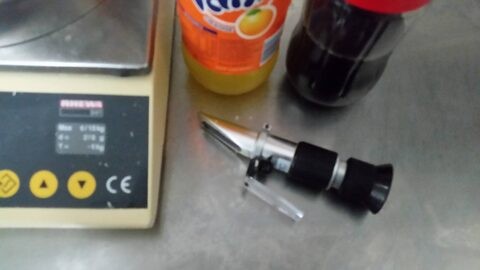
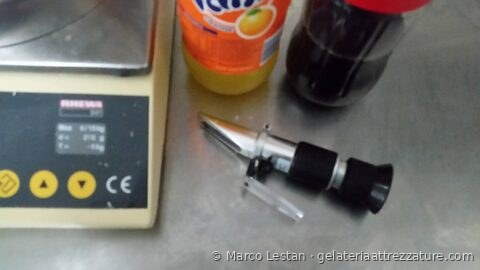
Add files via upload

Changed region(s): [[0.4375, 0.9185, 1.0, 0.9778]]

diff --git a/nutzungsbedingungen.html b/nutzungsbedingungen.html
@@ -1,0 +1,42 @@
+<!doctype html>
+<html lang="de">
+<head>
+<meta charset="utf-8">
+<meta name="viewport" content="width=device-width,initial-scale=1">
+<title>Nutzungsbedingungen und Urheberrecht | gelateriaattrezzature.com</title>
+<meta name="description" content="Nutzungsbedingungen, Urheberrecht und erlaubte Nutzung der Inhalte dieser Website.">
+<meta name="robots" content="noindex,follow">
+<link rel="canonical" href="https://gelateriaattrezzature.com/nutzungsbedingungen.html">
+<style>
+:root{--ink:#3b2a20;--soft:#7a6455;--paper:#fffaf3;--brand:#c2563a;--line:#ecdfd2}
+*{box-sizing:border-box}
+body{margin:0;font-family:"Segoe UI",system-ui,-apple-system,sans-serif;background:var(--paper);color:var(--ink);line-height:1.65}
+main{max-width:760px;margin:0 auto;padding:28px 16px 56px}
+a{color:var(--brand)}
+h1{font-size:1.6rem;line-height:1.25;margin:18px 0 6px}
+h2{font-size:1.15rem;margin:26px 0 6px}
+ul{padding-left:22px}
+li{margin:6px 0}
+.upd{color:var(--soft);font-size:.9rem;margin:0 0 8px}
+footer{border-top:1px solid var(--line);margin-top:36px;padding-top:14px;color:var(--soft);font-size:.85rem}
+</style>
+</head>
+<body>
+<main>
+<p><a href="/">← Zur Startseite</a></p>
+<h1>Nutzungsbedingungen und Urheberrecht</h1>
+<p class="upd">Zuletzt aktualisiert: 18. Oktober 2026</p>
+<h2>Inhaber der Inhalte</h2>
+<p>Die Inhalte von gelateriaattrezzature.com (Texte, Aufbau und Gliederung der Seiten, Vergleiche, Rechner, Grafiken, Fotos und vom Autor erstellte Bilder) stammen von Marco Lestan, sofern nicht anders angegeben. © 2026 Marco Lestan, alle Rechte vorbehalten.</p>
+<h2>Was erlaubt ist</h2>
+<p>Sie dürfen die Website lesen, für Ihre Arbeit in der Eisdiele nutzen und kurze Passagen mit einem gut sichtbaren Link zur Originalseite zitieren.</p>
+<h2>Was ohne schriftliche Genehmigung nicht erlaubt ist</h2>
+<ul><li>Texte, Bilder, Tabellen, Vergleiche oder Teile der Website zu kopieren oder erneut zu veröffentlichen, auch in veränderter oder übersetzter Form.</li><li>Den Aufbau oder die Auswahl der Daten auf anderen Websites, in Apps, Newslettern, Archiven oder Datenbanken nachzubilden.</li><li>Inhalte automatisch oder systematisch auszulesen (Scraping) oder zum Training von KI-Systemen zu verwenden.</li><li>Bilder auf andere Websites hochzuladen oder direkt von unserem Server einzubinden (Hotlinking).</li></ul>
+<h2>Inhalte Dritter</h2>
+<p>Marken, Namen, Logos, Bilder und technische Daten der Herstellerfirmen gehören den jeweiligen Inhabern und werden nur zur Information gezeigt, mit Links zu deren Quellen. Einige Bilder sind Illustrationen, die mit künstlicher Intelligenz erstellt wurden; sie sind entsprechend gekennzeichnet.</p>
+<h2>Genehmigungen und Meldungen</h2>
+<p>Für eine Genehmigung oder zur Meldung einer unerlaubten Nutzung schreiben Sie an <a href="mailto:marcolestan@gelateriaingredienti.com">marcolestan@gelateriaingredienti.com</a>. Unerlaubte Nutzung kann rechtlich verfolgt werden (in Deutschland nach dem Urheberrechtsgesetz, UrhG).</p>
+<footer>© 2026 Marco Lestan</footer>
+</main>
+</body>
+</html>

diff --git a/condizioni-d-uso.html b/condizioni-d-uso.html
@@ -1,0 +1,42 @@
+<!doctype html>
+<html lang="it">
+<head>
+<meta charset="utf-8">
+<meta name="viewport" content="width=device-width,initial-scale=1">
+<title>Condizioni d'uso e diritti d'autore | gelateriaattrezzature.com</title>
+<meta name="description" content="Condizioni d'uso, diritti d'autore e uso consentito dei contenuti del sito.">
+<meta name="robots" content="noindex,follow">
+<link rel="canonical" href="https://gelateriaattrezzature.com/condizioni-d-uso.html">
+<style>
+:root{--ink:#3b2a20;--soft:#7a6455;--paper:#fffaf3;--brand:#c2563a;--line:#ecdfd2}
+*{box-sizing:border-box}
+body{margin:0;font-family:"Segoe UI",system-ui,-apple-system,sans-serif;background:var(--paper);color:var(--ink);line-height:1.65}
+main{max-width:760px;margin:0 auto;padding:28px 16px 56px}
+a{color:var(--brand)}
+h1{font-size:1.6rem;line-height:1.25;margin:18px 0 6px}
+h2{font-size:1.15rem;margin:26px 0 6px}
+ul{padding-left:22px}
+li{margin:6px 0}
+.upd{color:var(--soft);font-size:.9rem;margin:0 0 8px}
+footer{border-top:1px solid var(--line);margin-top:36px;padding-top:14px;color:var(--soft);font-size:.85rem}
+</style>
+</head>
+<body>
+<main>
+<p><a href="/">← Torna alla home</a></p>
+<h1>Condizioni d'uso e diritti d'autore</h1>
+<p class="upd">Ultimo aggiornamento: 18 ottobre 2026</p>
+<h2>Titolarità dei contenuti</h2>
+<p>I contenuti di gelateriaattrezzature.com (testi, struttura e organizzazione delle pagine, confronti, calcolatori, grafica, foto e immagini create dall'autore) sono di Marco Lestan, salvo dove indicato diversamente. © 2026 Marco Lestan, tutti i diritti riservati.</p>
+<h2>Cosa puoi fare</h2>
+<p>Puoi consultare il sito, usarlo per il tuo lavoro in gelateria e citare brevi passi con un link ben visibile alla pagina d'origine.</p>
+<h2>Cosa non puoi fare senza autorizzazione scritta</h2>
+<ul><li>Copiare o ripubblicare testi, immagini, tabelle, confronti o parti del sito, anche modificati o tradotti.</li><li>Riprodurre la struttura o la selezione dei dati su altri siti, app, newsletter, archivi o banche dati.</li><li>Estrarre i contenuti in modo automatico o sistematico (scraping) o usarli per addestrare sistemi di intelligenza artificiale.</li><li>Caricare le immagini su altri siti o collegarle direttamente dal nostro server (hotlinking).</li></ul>
+<h2>Contenuti di terzi</h2>
+<p>Marchi, nomi, loghi, immagini e dati tecnici delle aziende produttrici restano dei rispettivi titolari e sono mostrati solo a scopo informativo, con link alle loro fonti. Alcune immagini sono illustrative e create con l'intelligenza artificiale: sono indicate come tali.</p>
+<h2>Permessi e segnalazioni</h2>
+<p>Per chiedere un permesso o segnalare un uso non autorizzato scrivi a <a href="mailto:marcolestan@gelateriaingredienti.com">marcolestan@gelateriaingredienti.com</a>. L'uso non autorizzato può essere perseguito a norma di legge (in Italia, legge 633/1941 sul diritto d'autore).</p>
+<footer>© 2026 Marco Lestan</footer>
+</main>
+</body>
+</html>

diff --git a/index.html b/index.html
@@ -523,6 +523,7 @@
     <span data-i18n="legalText">Questo portale è indipendente, gratuito per l'utente e non sponsorizzato: nessuna azienda paga per essere inclusa nel confronto o per la propria posizione nei risultati. Contenuti conformi alla normativa europea vigente (incl. Regolamento UE 2016/679 – GDPR). Il presente portale ha finalità esclusivamente informativa e consultiva: non è consentito alcun uso commerciale, riproduzione, distribuzione o sfruttamento dei contenuti senza autorizzazione scritta del titolare.</span>
     <span class="disclaimer" data-i18n="disclaimerText" style="display:block;margin-top:6px;">Avviso: i dati contenuti in questo portale sono riportati solo a scopo di conoscenza. Il confronto è puramente teorico e si basa sui dati rilasciati dalle aziende o disponibili sul web. Non sono indicati costi né altri parametri economici.</span>
   </div>
+<p class="copyright-line" style="margin:12px 0 0;font-size:.85em;text-align:center;">© 2026 Marco Lestan, tutti i diritti riservati · <a href="/condizioni-d-uso.html">Condizioni d'uso</a></p>
 </footer>
 
 <div class="modal-overlay" id="joinModalOverlay">

diff --git a/usato.html b/usato.html
@@ -317,6 +317,7 @@
     <span data-i18n="legalText">Contenuti conformi alla normativa europea vigente (incl. Regolamento UE 2016/679 – GDPR). Il presente portale ha finalità esclusivamente informativa e consultiva: non è consentito alcun uso commerciale, riproduzione, distribuzione o sfruttamento dei contenuti senza autorizzazione scritta del titolare.</span>
     <span class="disclaimer" data-i18n="disclaimerText" style="display:block;margin-top:6px;">Avviso: i dati contenuti in questo portale sono riportati solo a scopo di conoscenza. Il confronto è puramente teorico e si basa sui dati rilasciati dalle aziende o disponibili sul web. Non sono indicati costi né altri parametri economici.</span>
   </div>
+<p class="copyright-line" style="margin:12px 0 0;font-size:.85em;text-align:center;">© 2026 Marco Lestan, tutti i diritti riservati · <a href="/condizioni-d-uso.html">Condizioni d'uso</a></p>
 </footer>
 
 <div class="modal-overlay" id="sellModalOverlay">

diff --git a/aziende-usato.html b/aziende-usato.html
@@ -434,6 +434,7 @@
     <span data-i18n="legalText">Contenuti conformi alla normativa europea vigente (incl. Regolamento UE 2016/679 – GDPR). Il presente portale ha finalità esclusivamente informativa e consultiva: non è consentito alcun uso commerciale, riproduzione, distribuzione o sfruttamento dei contenuti senza autorizzazione scritta del titolare.</span>
     <span class="disclaimer" data-i18n="disclaimerText" style="display:block;margin-top:6px;">Avviso: i dati contenuti in questo portale sono riportati solo a scopo di conoscenza. Il confronto è puramente teorico e si basa sui dati rilasciati dalle aziende o disponibili sul web. Non sono indicati costi né altri parametri economici.</span>
   </div>
+<p class="copyright-line" style="margin:12px 0 0;font-size:.85em;text-align:center;">© 2026 Marco Lestan, tutti i diritti riservati · <a href="/condizioni-d-uso.html">Condizioni d'uso</a></p>
 </footer>
 
 <script>

diff --git a/aziende.html b/aziende.html
@@ -599,6 +599,7 @@
     <span data-i18n="legalText">Contenuti conformi alla normativa europea vigente (incl. Regolamento UE 2016/679 – GDPR). Il presente portale ha finalità esclusivamente informativa e consultiva: non è consentito alcun uso commerciale, riproduzione, distribuzione o sfruttamento dei contenuti senza autorizzazione scritta del titolare.</span>
     <span class="disclaimer" data-i18n="disclaimerText" style="display:block;margin-top:6px;">Avviso: i dati contenuti in questo portale sono riportati solo a scopo di conoscenza. Il confronto è puramente teorico e si basa sui dati rilasciati dalle aziende o disponibili sul web. Non sono indicati costi né altri parametri economici.</span>
   </div>
+<p class="copyright-line" style="margin:12px 0 0;font-size:.85em;text-align:center;">© 2026 Marco Lestan, tutti i diritti riservati · <a href="/condizioni-d-uso.html">Condizioni d'uso</a></p>
 </footer>
 
 <script>

diff --git a/chi-sono.html b/chi-sono.html
@@ -236,6 +236,7 @@
     <span data-i18n="legalText">Contenuti conformi alla normativa europea vigente (incl. Regolamento UE 2016/679 – GDPR). Il presente portale ha finalità esclusivamente informativa e consultiva: non è consentito alcun uso commerciale, riproduzione, distribuzione o sfruttamento dei contenuti senza autorizzazione scritta del titolare.</span>
     <span class="disclaimer" data-i18n="disclaimerText" style="display:block;margin-top:6px;">Avviso: i dati contenuti in questo portale sono riportati solo a scopo di conoscenza. Il confronto è puramente teorico e si basa sui dati rilasciati dalle aziende o disponibili sul web. Non sono indicati costi né altri parametri economici.</span>
   </div>
+<p class="copyright-line" style="margin:12px 0 0;font-size:.85em;text-align:center;">© 2026 Marco Lestan, tutti i diritti riservati · <a href="/condizioni-d-uso.html">Condizioni d'uso</a></p>
 </footer>
 
 <script>

diff --git a/mantecatori-gelato.html b/mantecatori-gelato.html
@@ -253,6 +253,7 @@
     <span data-i18n="legalText">Contenuti conformi alla normativa europea vigente (incl. Regolamento UE 2016/679 – GDPR). Il presente portale ha finalità esclusivamente informativa e consultiva: non è consentito alcun uso commerciale, riproduzione, distribuzione o sfruttamento dei contenuti senza autorizzazione scritta del titolare.</span>
     <span class="disclaimer" data-i18n="disclaimerText" style="display:block;margin-top:6px;">Avviso: i dati contenuti in questo portale sono riportati solo a scopo di conoscenza. Il confronto è puramente teorico e si basa sui dati rilasciati dalle aziende o disponibili sul web. Non sono indicati costi né altri parametri economici.</span>
   </div>
+<p class="copyright-line" style="margin:12px 0 0;font-size:.85em;text-align:center;">© 2026 Marco Lestan, tutti i diritti riservati · <a href="/condizioni-d-uso.html">Condizioni d'uso</a></p>
 </footer>
 
 <script>

diff --git a/notizie.html b/notizie.html
@@ -240,6 +240,7 @@
     <span data-i18n="legalText">Contenuti conformi alla normativa europea vigente (incl. Regolamento UE 2016/679 – GDPR). Il presente portale ha finalità esclusivamente informativa e consultiva: non è consentito alcun uso commerciale, riproduzione, distribuzione o sfruttamento dei contenuti senza autorizzazione scritta del titolare.</span>
     <span class="disclaimer" data-i18n="disclaimerText" style="display:block;margin-top:6px;">Avviso: i dati contenuti in questo portale sono riportati solo a scopo di conoscenza. Il confronto è puramente teorico e si basa sui dati rilasciati dalle aziende o disponibili sul web. Non sono indicati costi né altri parametri economici.</span>
   </div>
+<p class="copyright-line" style="margin:12px 0 0;font-size:.85em;text-align:center;">© 2026 Marco Lestan, tutti i diritti riservati · <a href="/condizioni-d-uso.html">Condizioni d'uso</a></p>
 </footer>
 
 <script>

diff --git a/abbattitori-gelato.html b/abbattitori-gelato.html
@@ -248,6 +248,7 @@
     <span>Contenuti conformi alla normativa europea vigente (incl. Regolamento UE 2016/679 – GDPR). Il presente portale ha finalità esclusivamente informativa e consultiva: non è consentito alcun uso commerciale, riproduzione, distribuzione o sfruttamento dei contenuti senza autorizzazione scritta del titolare.</span>
     <span class="disclaimer" style="display:block;margin-top:6px;">Avviso: i dati contenuti in questo portale sono riportati solo a scopo di conoscenza. Il confronto è puramente teorico e si basa sui dati rilasciati dalle aziende o disponibili sul web. Non sono indicati costi né altri parametri economici.</span>
   </div>
+<p class="copyright-line" style="margin:12px 0 0;font-size:.85em;text-align:center;">© 2026 Marco Lestan, tutti i diritti riservati · <a href="/condizioni-d-uso.html">Condizioni d'uso</a></p>
 </footer>
 
 <script>

diff --git a/accessori-gelateria.html b/accessori-gelateria.html
@@ -349,6 +349,7 @@
     <span>Contenuti conformi alla normativa europea vigente (incl. Regolamento UE 2016/679 – GDPR). Il presente portale ha finalità esclusivamente informativa e consultiva: non è consentito alcun uso commerciale, riproduzione, distribuzione o sfruttamento dei contenuti senza autorizzazione scritta del titolare.</span>
     <span class="disclaimer" style="display:block;margin-top:6px;">Avviso: i dati contenuti in questo portale sono riportati solo a scopo di conoscenza. Il confronto è puramente teorico e si basa sui dati rilasciati dalle aziende o disponibili sul web. Non sono indicati costi né altri parametri economici.</span>
   </div>
+<p class="copyright-line" style="margin:12px 0 0;font-size:.85em;text-align:center;">© 2026 Marco Lestan, tutti i diritti riservati · <a href="/condizioni-d-uso.html">Condizioni d'uso</a></p>
 </footer>
 
 <script>

diff --git a/arredamento-gelateria.html b/arredamento-gelateria.html
@@ -356,6 +356,7 @@
     <span>Contenuti conformi alla normativa europea vigente (incl. Regolamento UE 2016/679 – GDPR). Il presente portale ha finalità esclusivamente informativa e consultiva: non è consentito alcun uso commerciale, riproduzione, distribuzione o sfruttamento dei contenuti senza autorizzazione scritta del titolare.</span>
     <span class="disclaimer" style="display:block;margin-top:6px;">Avviso: i dati contenuti in questo portale sono riportati solo a scopo di conoscenza. Il confronto è puramente teorico e si basa sui dati rilasciati dalle aziende o disponibili sul web. Non sono indicati costi né altri parametri economici.</span>
   </div>
+<p class="copyright-line" style="margin:12px 0 0;font-size:.85em;text-align:center;">© 2026 Marco Lestan, tutti i diritti riservati · <a href="/condizioni-d-uso.html">Condizioni d'uso</a></p>
 </footer>
 
 <script>
